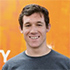
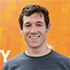
new grunt task

diff --git a/project-webperf.html b/project-webperf.html
@@ -36,7 +36,7 @@
 
   <body>
     <header>
-      <a href="/"><img src="images/profilepic-900_large_1x.jpg"></a>
+      <a href="/"><img src="images/profilepic-250_thumbnail.jpg"></a>
       <p>Cameron Pittman<br><span>Course Developer</span></p>
     </header>
 
@@ -49,7 +49,7 @@
 
         <p>Thanks to everyone at Udacity and Google who made this class happen! Now for a very true meme and some <strike>lorem</strike> bacon ipsum.</p>
 
-        <img src="images/cam_be_like-1600_large_2x.jpg">
+        <img src="images/cam_be_like-1200_large_2x.jpg">
         <p>Bacon ipsum dolor sit amet et pork belly porchetta excepteur dolor, laborum laboris magna labore dolore in fugiat beef ribs. Fugiat leberkas nulla do kevin dolore. Flank hamburger dolor swine prosciutto sirloin pig jerky sunt consequat pariatur. Mollit meatloaf nostrud laboris shoulder excepteur velit officia meatball nisi turkey. Nulla jowl spare ribs, et drumstick magna frankfurter.</p>
 
         <p>Venison spare ribs dolor tri-tip duis turkey. Ut chicken proident ribeye est flank, sed frankfurter. Kielbasa exercitation ullamco leberkas. Landjaeger turkey culpa, tail short loin consectetur salami venison in corned beef eiusmod qui ad leberkas. Tri-tip adipisicing frankfurter ut sirloin rump consectetur. Chuck sint filet mignon labore eiusmod nulla. Venison shankle pork, consectetur nisi bacon spare ribs anim meatball sausage ball tip labore aute reprehenderit adipisicing.</p>

diff --git a/Gruntfile.js b/Gruntfile.js
@@ -15,21 +15,21 @@ module.exports = function(grunt) {
         options: {
           engine: 'im',
           sizes: [{
-            width: 900,
+            width: 700,
             suffix: '_large_1x',
             quality: 60
           },{
             width: 1200,
             suffix: '_large_2x',
-            quality: 100
+            quality: 80
           }, {
-            width: 800,
+            width: 500,
             suffix: '_medium',
             quality: 30
           }, {
-            width: 400,
-            suffix: '_small',
-            quality: 20
+            width: 250,
+            suffix: '_thumbnail',
+            quality: 30
           }]
         },
 

diff --git a/index.html b/index.html
@@ -37,7 +37,7 @@
 
   <body>
     <header>
-      <a href="/"><img src="images/profilepic-900_large_1x.jpg"></a>
+      <a href="/"><img src="images/profilepic-250_thumbnail.jpg"></a>
       <p>Cameron Pittman<br><span>Course Developer</span></p>
     </header>
 
@@ -67,7 +67,7 @@
           </li>
 
           <li>
-            <img style="width: 100px;" src="images/pizzeria-400_small.jpg">
+            <img style="width: 100px;" src="images/pizzeria-250_thumbnail.jpg">
             <a href="views/pizza.html">Cam's Pizzeria</a>
             <p>Who wants a performant pizza?</p>
           </li>

diff --git a/project-2048.html b/project-2048.html
@@ -36,7 +36,7 @@
 
   <body>
     <header>
-      <a href="/"><img src="images/profilepic-900_large_1x.jpg"></a>
+      <a href="/"><img src="images/profilepic-250_thumbnail.jpg"></a>
       <p>Cameron Pittman<br><span>Course Developer</span></p>
     </header>
 

diff --git a/project-mobile.html b/project-mobile.html
@@ -36,7 +36,7 @@
 
   <body>
     <header>
-      <a href="/"><img src="images/profilepic-900_large_1x.jpg"></a>
+      <a href="/"><img src="images/profilepic-250_thumbnail.jpg"></a>
       <p>Cameron Pittman<br><span>Course Developer</span></p>
     </header>
 
